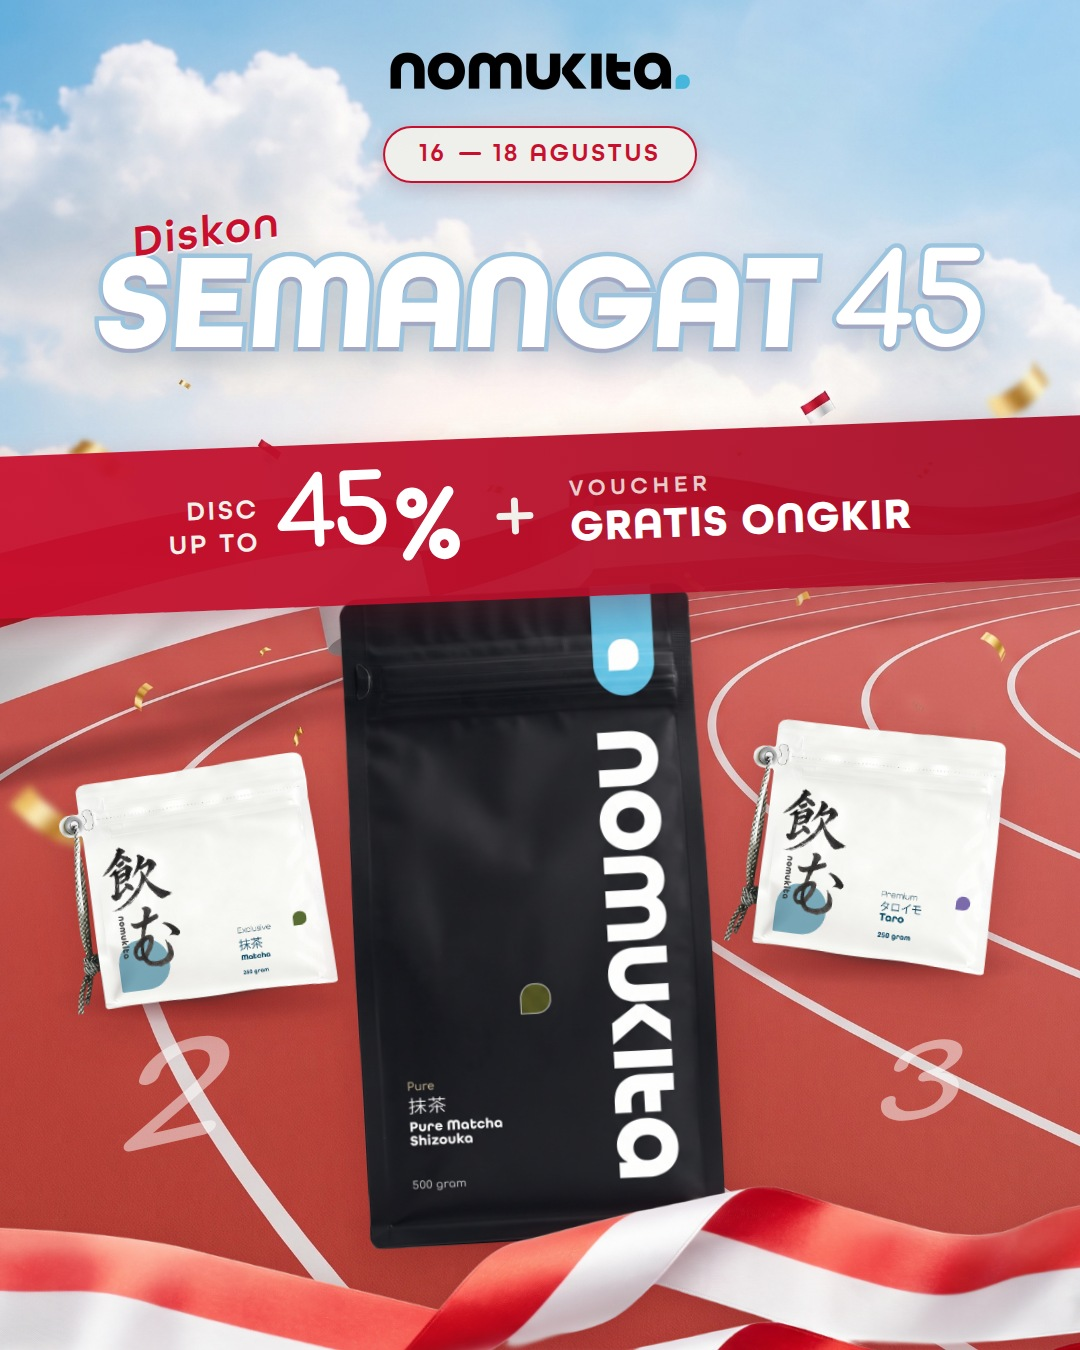
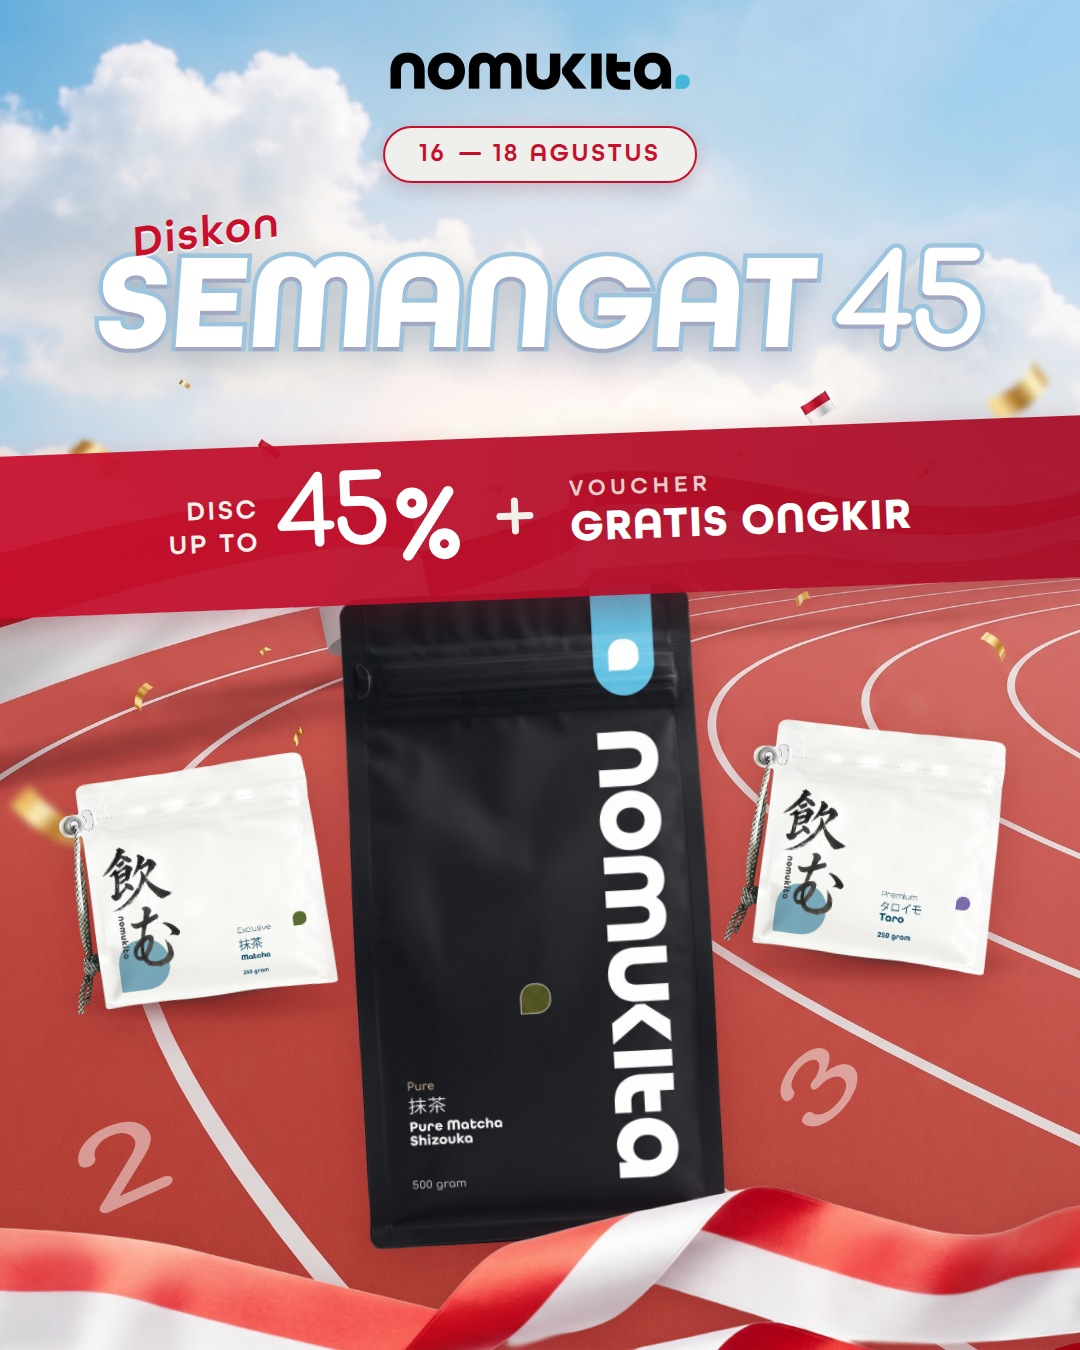
Align the 17an lane numbers to the measured track lines
The lane digits used a flat -13° guess and drifted off the lanes. Scanned
the background for the white lane lines (brightness spikes vs a rolling
median) and found the left line runs ~24° from vertical, fanning to ~49° on
the right. Each digit is now rotated to its own lane's angle and seated in
the centre of a lane channel rather than straddling a line: "2" in the
leftmost lane at -24°, "3" in the right channel at -49°, both foreshortened
with scaleY. Verified by overlaying the detected lane lines on the render.

README records the measured angles and the centre-of-channel rule so a
regenerated background gets re-measured instead of re-guessed.

Claude-Session: https://claude.ai/code/session_01JLTZpkd5TWMrYgZzd5niuW

Changed region(s): [[0.7028, 0.7467, 0.8861, 0.84], [0.0611, 0.7778, 0.1833, 0.9022], [0.1528, 0.7467, 0.2139, 0.8089]]

diff --git a/design/17agustus/banner.html b/design/17agustus/banner.html
@@ -83,11 +83,13 @@
   /* lane numbers painted on the rubber, perspective-faked in CSS so the
      digits stay programmatic text (production rule: no AI text) */
   .lane{position:absolute;z-index:5;font-family:var(--brand-body);font-weight:700;
-    color:rgba(255,255,255,.5);line-height:1;pointer-events:none}
-  .lane.n2{left:118px;top:1000px;font-size:200px;
-    transform:rotate(-13deg) skewX(-26deg) scaleY(.62)}
-  .lane.n3{left:874px;top:1008px;font-size:158px;
-    transform:rotate(-11deg) skewX(-24deg) scaleY(.6)}
+    color:rgba(255,255,255,.48);line-height:1;pointer-events:none;transform-origin:center}
+  /* left-centre lane: line runs ~25deg from vertical → digit parallel to it */
+  .lane.n2{left:34px;top:1086px;width:180px;text-align:center;font-size:168px;
+    transform:rotate(-24deg) scaleY(.6)}
+  /* right lane fans steeper, ~45deg here */
+  .lane.n3{left:732px;top:1016px;width:180px;text-align:center;font-size:150px;
+    transform:rotate(-49deg) scaleY(.57)}
   /* finish-line tape breaking across the leader's lane, in front of everything */
   .tape{position:absolute;left:-70px;top:1192px;width:1220px;z-index:8;
     transform:rotate(-1.6deg);

diff --git a/design/17agustus/README.md b/design/17agustus/README.md
@@ -44,10 +44,18 @@ versi pertama hanya strip tipis di dasar frame, produk terbaca "dipajang di
 depan langit", bukan balapan). Lajur melengkung dari kiri-bawah ke kanan,
 produk berdiri *di tengah* permukaan merah, dikelilingi lajur.
 
-**Angka lajur ("2", "3") bukan bagian background** — dilukis via CSS
-(`.lane`, Comfortaa Bold putih 50%, `rotate + skewX + scaleY` untuk meniru
-perspektif cat di karet) supaya teks tetap programatik sesuai aturan produksi
+**Angka lajur ("2", "3") bukan bagian background** — dilukis via CSS (`.lane`,
+Comfortaa Bold putih 48%) supaya teks tetap programatik sesuai aturan produksi
 design system. Kalau background digenerate ulang, angka lajur tidak ikut hilang.
+
+Sudut & posisinya **diukur dari garis lajur asli**, bukan dikira. Scan kecerahan
+menemukan garis putih pada background: garis kiri miring **~24° dari tegak**,
+lajur melebar makin ke kanan sampai **~49°** di sisi kanan. Tiap angka `rotate`
+sesuai sudut lajurnya + `scaleY(.57–.6)` untuk foreshortening, dan ditaruh di
+**tengah channel** (bukan menindih garis): `2` di lajur terluar kiri
+(`rotate(-24deg)`), `3` di channel kanan (`rotate(-49deg)`). Kalau background
+diganti, ukur ulang sudut garisnya — percobaan pertama pakai −13° seragam dan
+melenceng dari lajur.
 
 Produk ditata sebagai pelari di lintasan:
 
